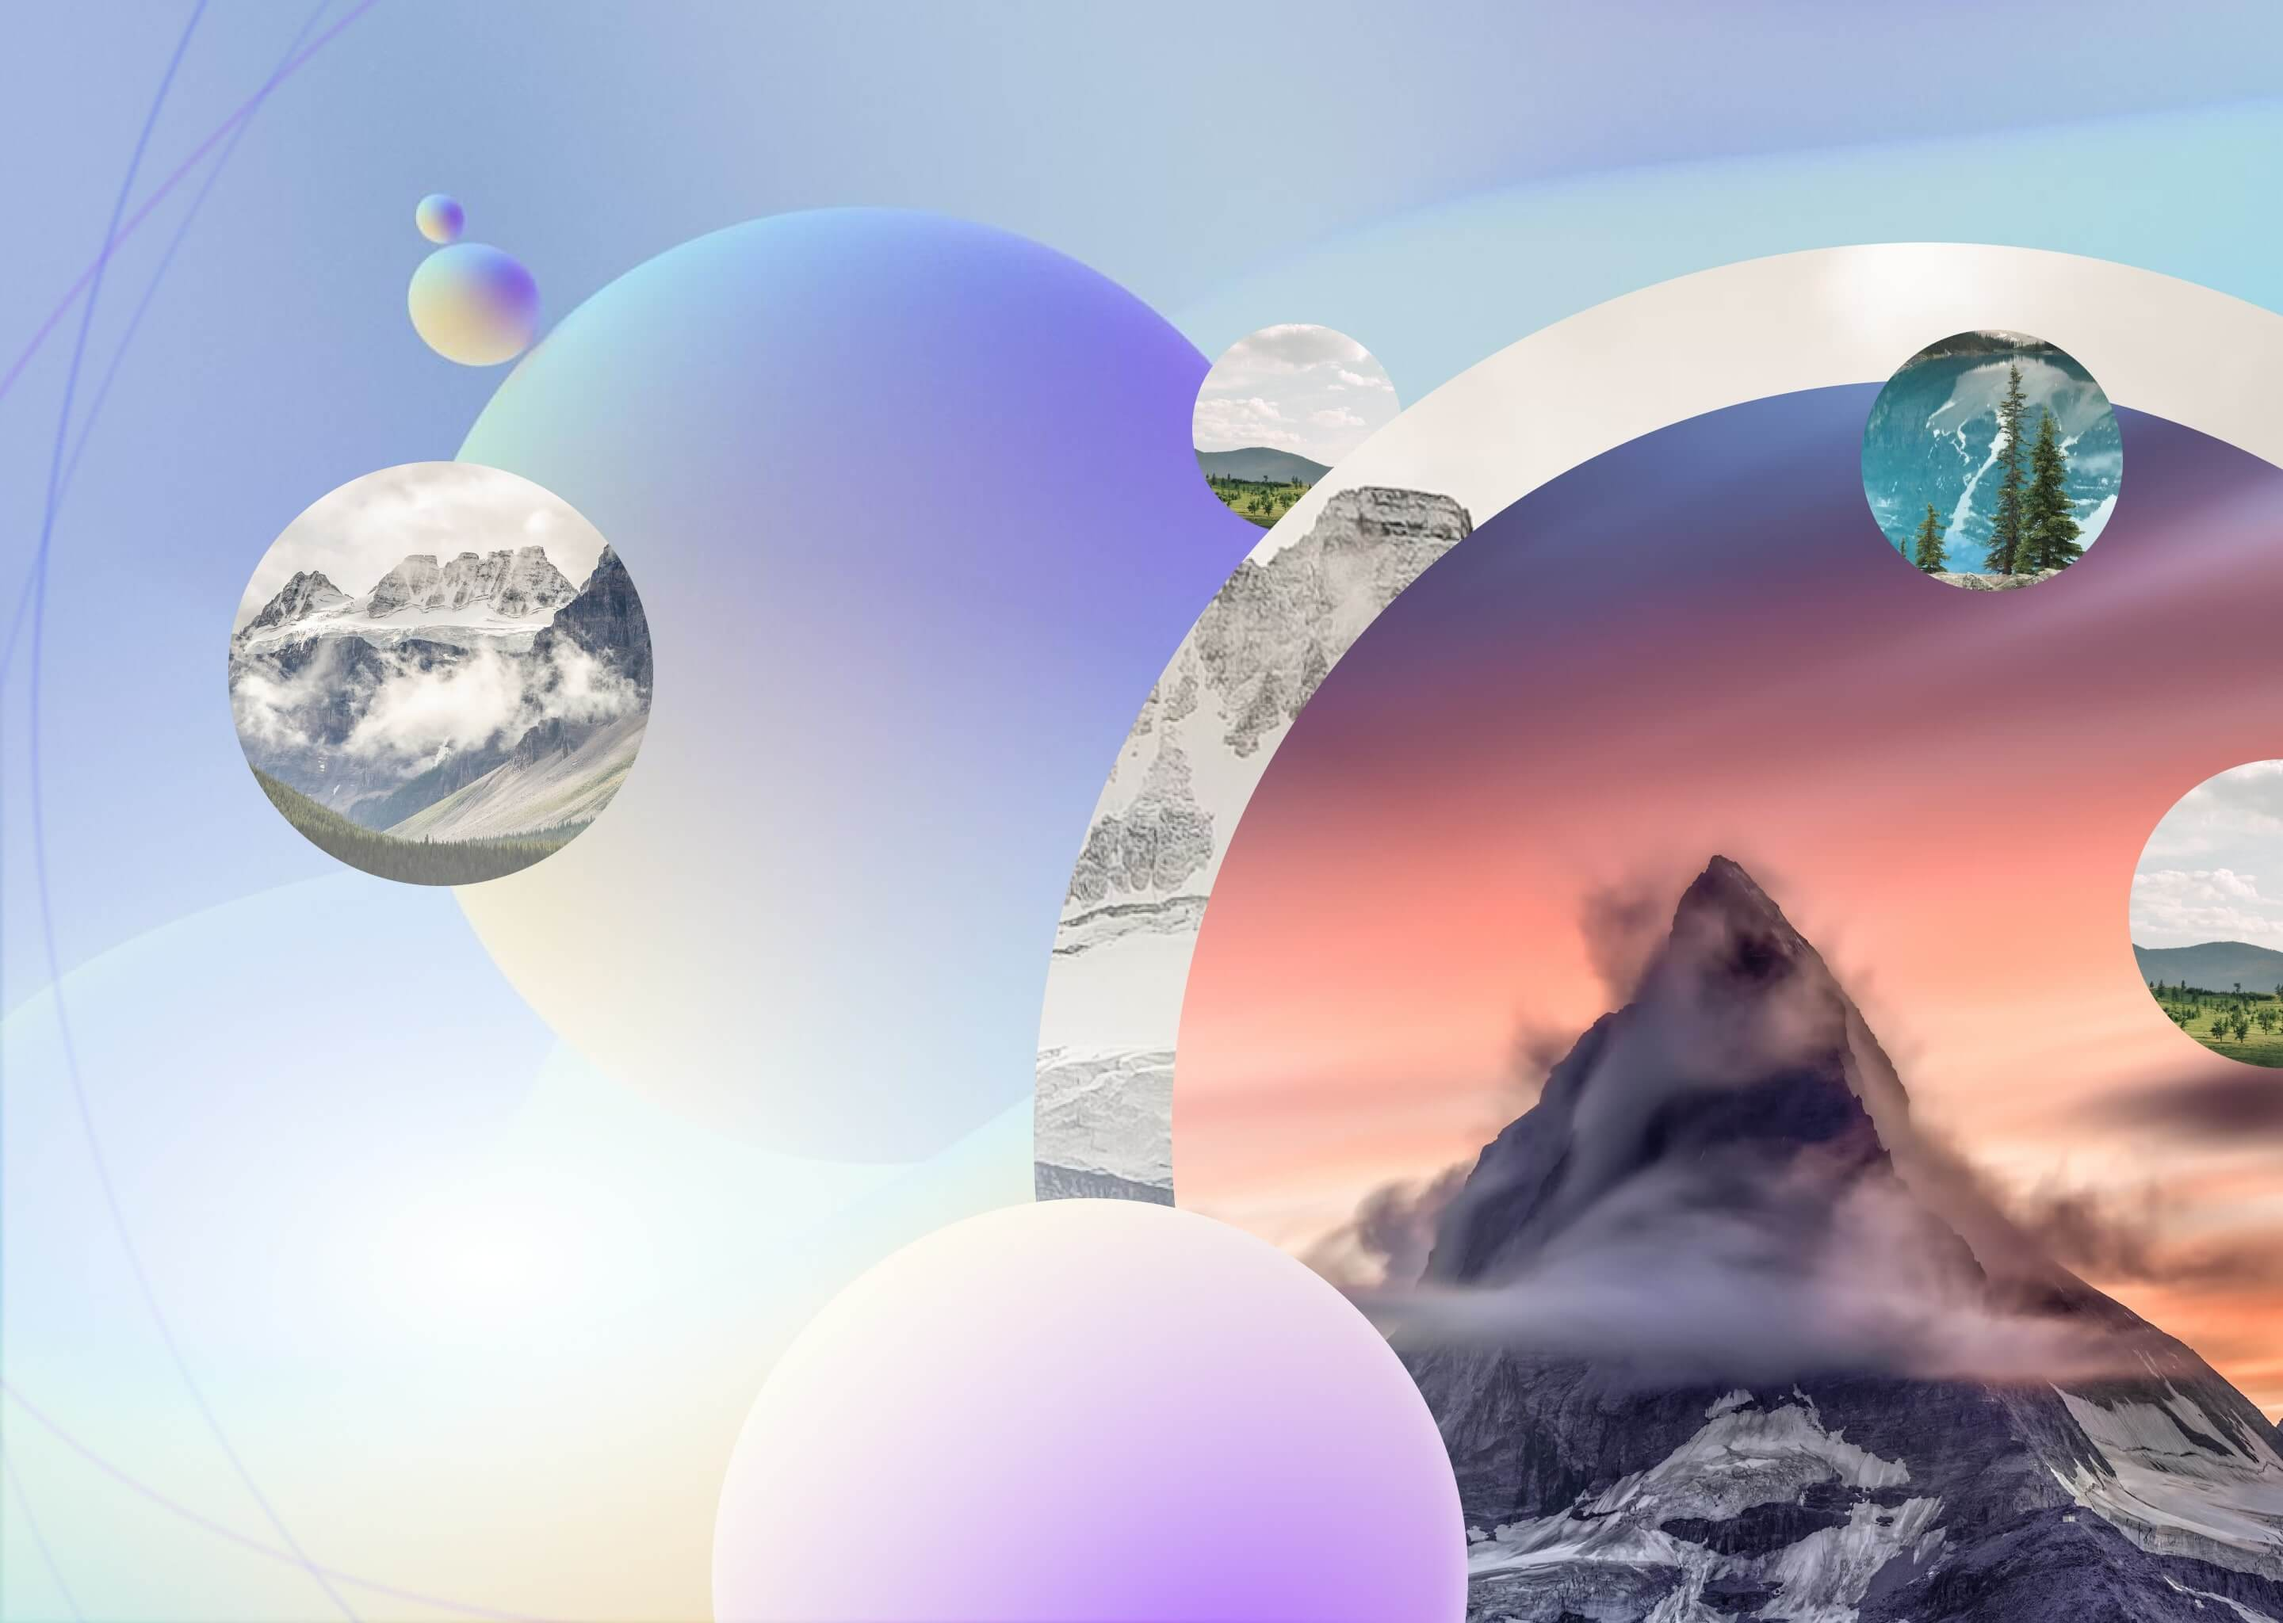
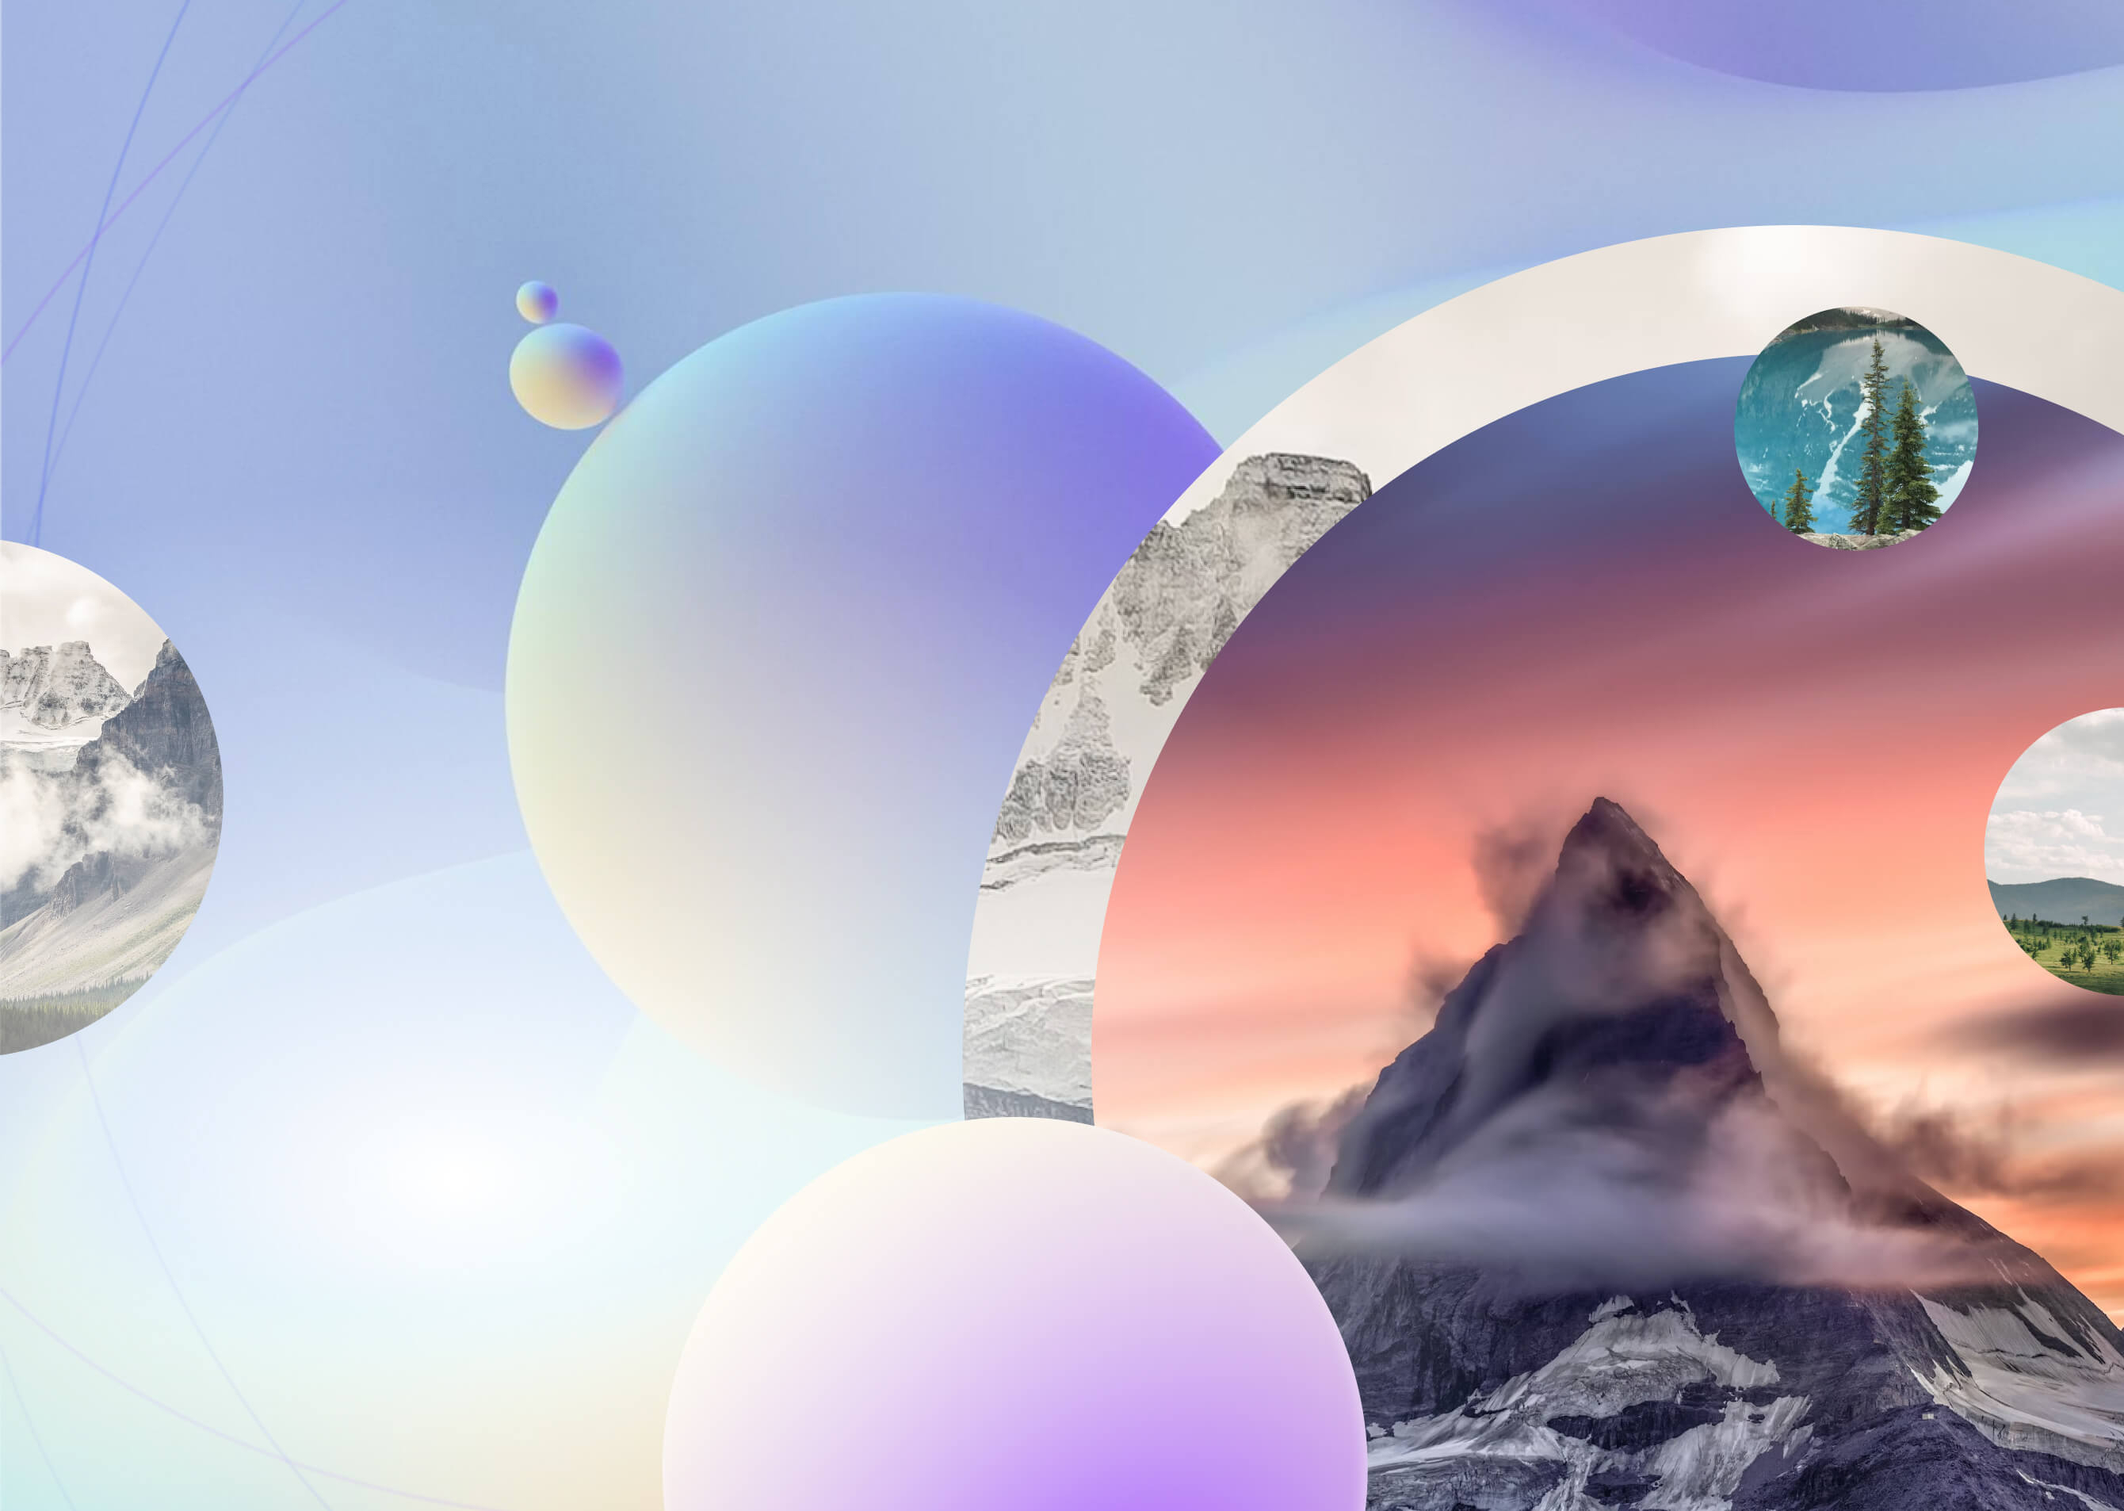
chore: cleanup - add larger hero image, styles cleanup

diff --git a/carbonmark/components/pages/Home/styles.ts b/carbonmark/components/pages/Home/styles.ts
@@ -73,12 +73,17 @@ export const hero = css`
 `;
 
 export const partnersSection = css`
+  position: relative;
   padding: 4rem 0rem 2rem !important;
-  background: url("/partners-bg.png") -145rem -85rem / auto no-repeat;
+  background: url("/partners-bg.jpeg") -145rem -85rem / auto no-repeat;
 
   ${breakpoints.desktop} {
     padding: 7.6rem 0rem 11rem !important;
-    background: url("/partners-bg.png") center 27% / cover no-repeat !important;
+    background: url("/partners-bg.jpeg") center 27% / cover no-repeat !important;
+  }
+
+  & .stack {
+    z-index: 2;
   }
 
   & h2 {
@@ -661,7 +666,7 @@ export const sectionImage = css`
       & div {
         display: flex;
         max-width: 100%;
-        padding: 8rem 1.8rem;
+        padding: 8rem 3.2rem;
         margin: 0 auto;
         flex-direction: column;
         justify-content: center;
@@ -669,19 +674,19 @@ export const sectionImage = css`
         ${breakpoints.desktop} {
           padding: 0;
           max-width: 60%;
+          padding: 8rem 1.8rem;
         }
       }
 
       & h2 {
         max-width: 75%;
-        text-align: center;
+        text-align: left;
         font-size: 3.6rem;
         line-height: 3.6rem;
-        margin: 0 auto 3.2rem;
+        margin: 0 0 3.2rem 0;
 
         ${breakpoints.desktop} {
           max-width: 100%;
-          text-align: left;
           margin-bottom: 4rem;
           font-size: 6rem;
           line-height: 6rem;

diff --git a/carbonmark/components/pages/Home/index.tsx b/carbonmark/components/pages/Home/index.tsx
@@ -11,7 +11,7 @@ import {
   SCBLogo,
   Section,
   TwitterIcon,
-  VlinderLogo,
+  VlinderLogo
 } from "@klimadao/lib/components";
 import { urls } from "@klimadao/lib/constants";
 import { getImageSizes } from "@klimadao/lib/utils";
@@ -59,7 +59,6 @@ export const Home: NextPage<Props> = (props) => {
           fill
           alt="Carbonmark Hero"
           src="/hero.jpeg"
-          loader={(params) => params.src}
           style={{
             zIndex: 1,
             objectFit: "cover",

diff --git a/carbonmark/components/shared/Navigation/styles.ts b/carbonmark/components/shared/Navigation/styles.ts
@@ -18,7 +18,7 @@ export const navMain_DesktopLink = css`
   &,
   &:hover,
   &:visited {
-    color: var(--font-03);
+    color: var(--font-01);
     font-weight: 500;
   }
   &:hover,
@@ -109,7 +109,7 @@ export const navMain_MobileLink = css`
   width: 100%;
   background: transparent;
   border: none;
-  color: var(--font-01) !important;
+  color: var(--white) !important;
   font-size: 1.4rem !important;
   &:focus {
     border: 1px solid var(--font-01) !important;
